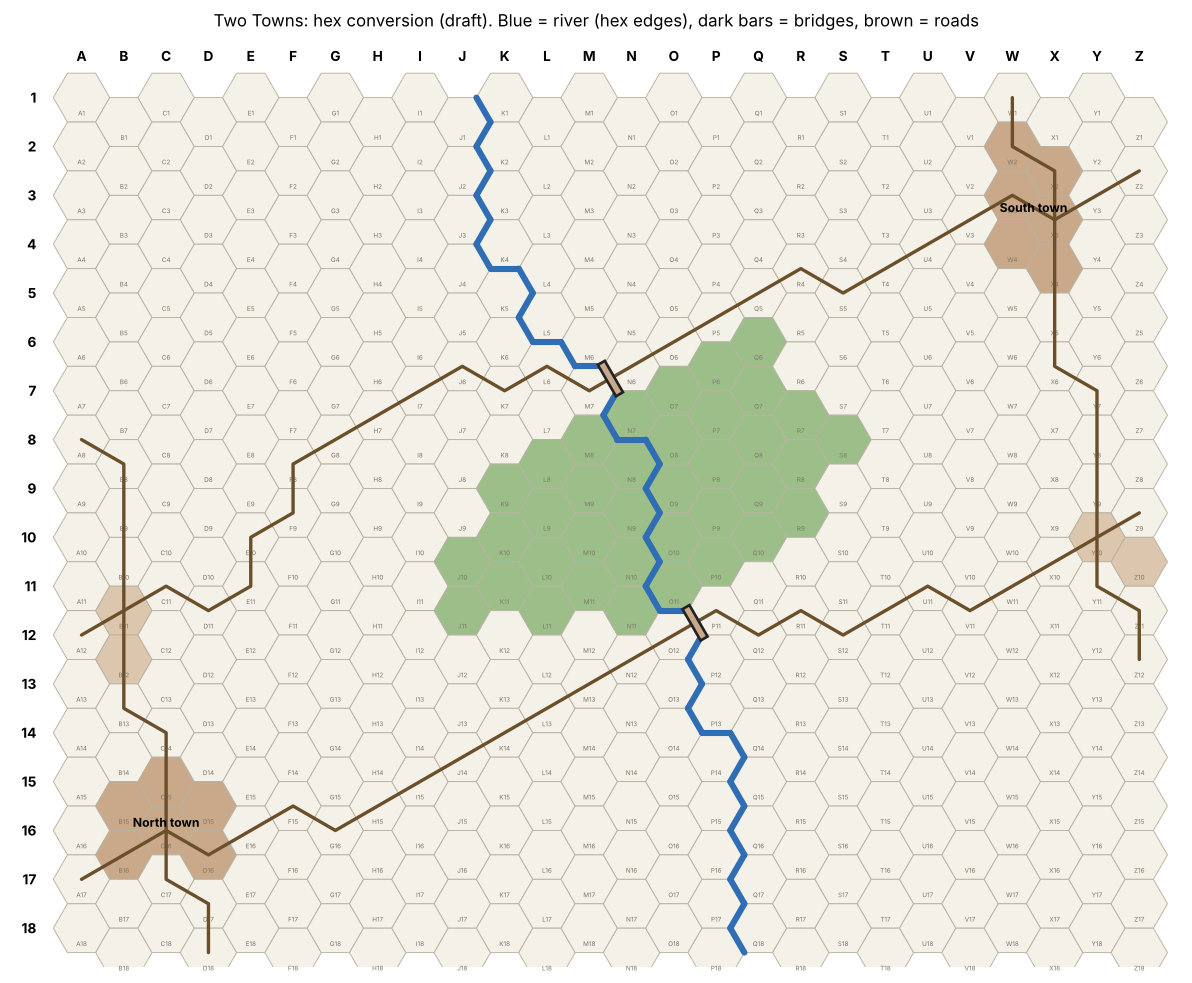
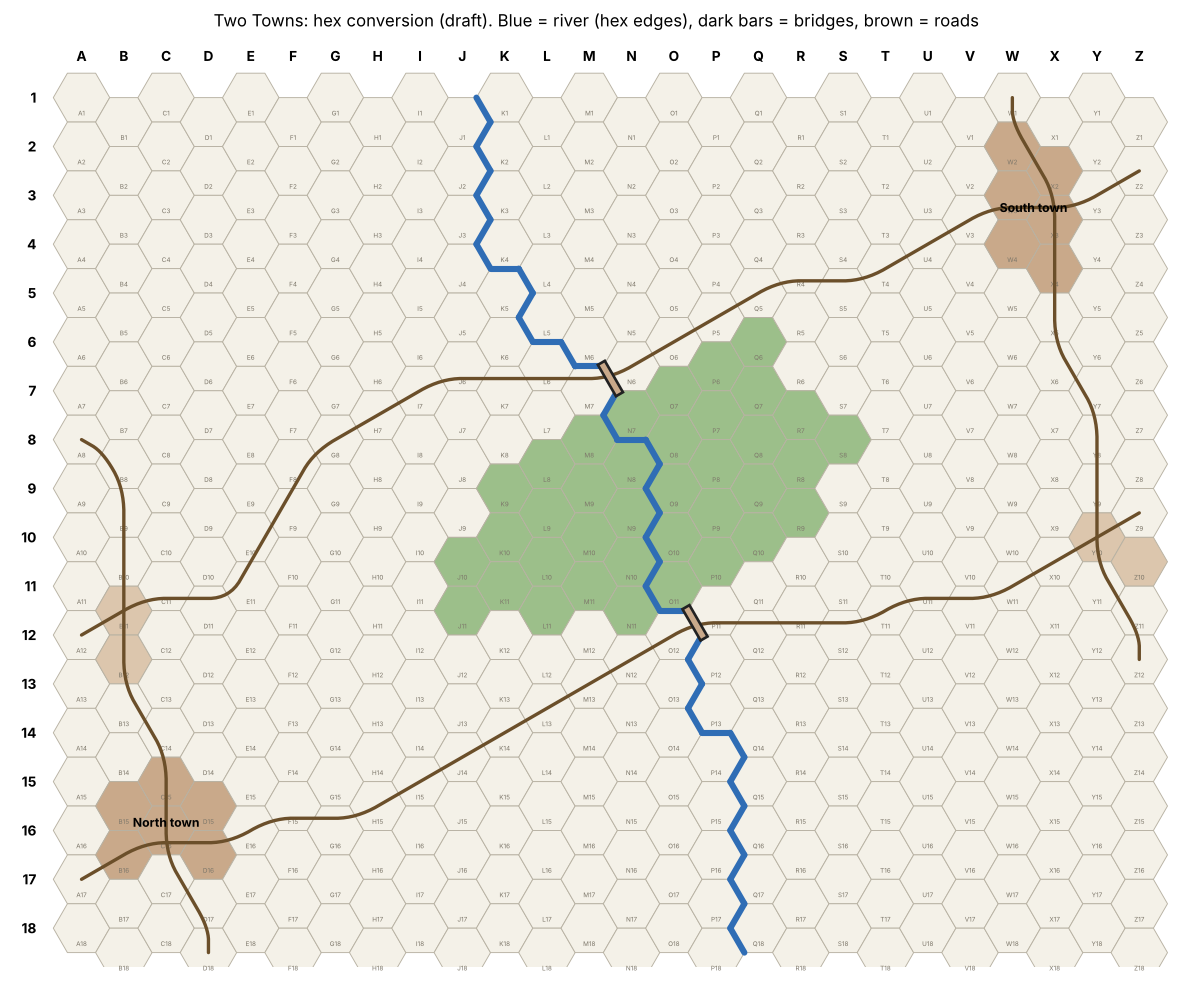
Playtest round 5: planning ignores units, optional facing, display fixes
Dev plan 7.9: move previews use terrain only and ignore units (fixes the
7.7 instruction), any hex is a valid target, automatic facing by
default, translucent overlays, terrain kept during replay, and roads
drawn through edge midpoints with smoothing (reference in
docs/maps/twotowns.py; preview image updated).

Claude-Session: https://claude.ai/code/session_01KmWsfcStadyb1c8yLwRQXH

diff --git a/docs/maps/twotowns.py b/docs/maps/twotowns.py
@@ -152,6 +152,24 @@ data = {
     "bridges": sorted(f"{name(a)}|{name(b)}" for a, b in bridges),
 }
 
+
+# ---- road drawing ----------------------------------------------------------------------
+# Roads are drawn through the midpoints of the edges they cross, not hex centres, then
+# smoothed. A road that alternates two directions (e.g. NE, SE, NE, SE = due east) has
+# all its edge midpoints on one straight line, so it reads straight instead of zig-zagging.
+def road_curve(ch, passes=3):
+    pts = [center(ch[0])]
+    for a, b in zip(ch, ch[1:]):
+        (ax_, ay), (bx, by) = center(a), center(b)
+        pts.append(((ax_ + bx) / 2, (ay + by) / 2))
+    pts.append(center(ch[-1]))
+    for _ in range(passes):          # Chaikin corner cutting, keeping the end points
+        out = [pts[0]]
+        for (x1, y1), (x2, y2) in zip(pts, pts[1:]):
+            out += [(0.75 * x1 + 0.25 * x2, 0.75 * y1 + 0.25 * y2), (0.25 * x1 + 0.75 * x2, 0.25 * y1 + 0.75 * y2)]
+        out.append(pts[-1]); pts = out
+    return pts
+
 # ---- render --------------------------------------------------------------------------
 def render(path):
     fig, ax = plt.subplots(figsize=(16, 11), dpi=110)
@@ -164,8 +182,8 @@ def render(path):
                                     facecolor=col[t], edgecolor="#b8b2a3", lw=0.6))
         ax.text(X, -Y - 0.55, name(h), ha="center", va="center", fontsize=4.2, color="#7d776a")
     for ch in roads.values():
-        xs = [center(h)[0] for h in ch]; ys = [-center(h)[1] for h in ch]
-        ax.plot(xs, ys, color="#6b4f2a", lw=2.2, solid_capstyle="round", zorder=3)
+        xs, ys = zip(*road_curve(ch))
+        ax.plot(xs, [-y for y in ys], color="#6b4f2a", lw=2.2, solid_capstyle="round", zorder=3)
     def edge_pts(a, b):
         (ax_, ay), (bx, by) = center(a), center(b)
         mx, my = (ax_ + bx) / 2, (ay + by) / 2

diff --git a/docs/dev-plan.md b/docs/dev-plan.md
@@ -257,7 +257,7 @@ From Mykal's full game (`Testaftermovementplanningupdate.json`). Rules already u
 **Interface.**
 
 - **Order lines in the side's colour**, with the line style showing the order type: Move solid, Close and Attack dashed, Fire dotted, Close and Fire dash-dot (or similar), Ready/Mobilise a small marker on the unit. Add a small legend.
-- The pending-move estimate ("about here") should follow the **safe route** on the current board as a hint, still labelled as an estimate.
+- The pending-move estimate ("about here") follows the route over **terrain only, ignoring every unit** (see 7.9), still labelled as an estimate.
 
 **Saves.**
 
@@ -284,6 +284,26 @@ New rules: core-rules.md 2.3 (terrain, road march, forest, fording, river adjace
 - Draw terrain: forest, towns and hamlets as hex fills, roads as lines through hex centres, the river along hex edges, bridges marked. Show objective ownership.
 - Reach preview: road march reach along the road (+2), forest-limited reach, and a clear ford option when a unit stands on a river bank.
 - The map is 26 × 18: add **zoom and pan**. The map-first layout (7.4) will matter more now; ask Mykal before starting it.
+
+### 7.9 Playtest round 5 fixes (do next)
+
+From Mykal's first Two Towns game. All interface; no rules change.
+
+**Planning must ignore units (regression).**
+
+- The move preview (`fetchMovePreview` → `/api/predict`) runs the engine on the current board, so a unit ordered along a road behind a friend is shown as blocked by that friend. Previews and estimates must use **terrain only** (rivers, bridges, fording, road march, forest) and ignore every unit, friend or enemy, exactly like the reach highlight. (7.7 told you to use the current board; that was wrong.) Add a test: with a friendly unit standing on the road, the preview of a road march past it is unaffected.
+- **Any hex can be an order target, including occupied ones.** Today, clicking a friendly unit always selects it, so its hex can never be a Move objective. When a unit is selected and you click another unit's hex, offer the choices: "Move here" (any unit's hex) plus "Select this unit" (own side) or the attack types (enemy). With nothing selected, clicking your own unit selects it as now.
+
+**Facing is optional.**
+
+- Clicking a target adds the order straight away with **automatic facing** (the direction of the last step; for Deploy, the scenario's default). No facing step is required.
+- Facing can be set afterwards, if wanted, from a small six-way control on the order's list entry and on its ghost. Show the facing the order will end with on the ghost either way.
+
+**Display.**
+
+- **Deployment-zone and reach overlays must be translucent** (e.g. a light tint plus outline), so terrain stays visible underneath.
+- **Turn replay loses the terrain:** stepping through events (e.g. deployment) draws an empty hex grid with only units. Every view of the map must always draw the terrain layer.
+- **Straight roads.** Draw roads through the **midpoints of the hex edges** they cross (starting and ending at the end hexes' centres), then smooth with 2–3 passes of Chaikin corner-cutting. Alternating two-direction runs then render perfectly straight. Reference implementation: `road_curve` in `docs/maps/twotowns.py`. The rules (which hexes are road) don't change.
 
 ### 7.4 Parked (don't start without being asked)
 
